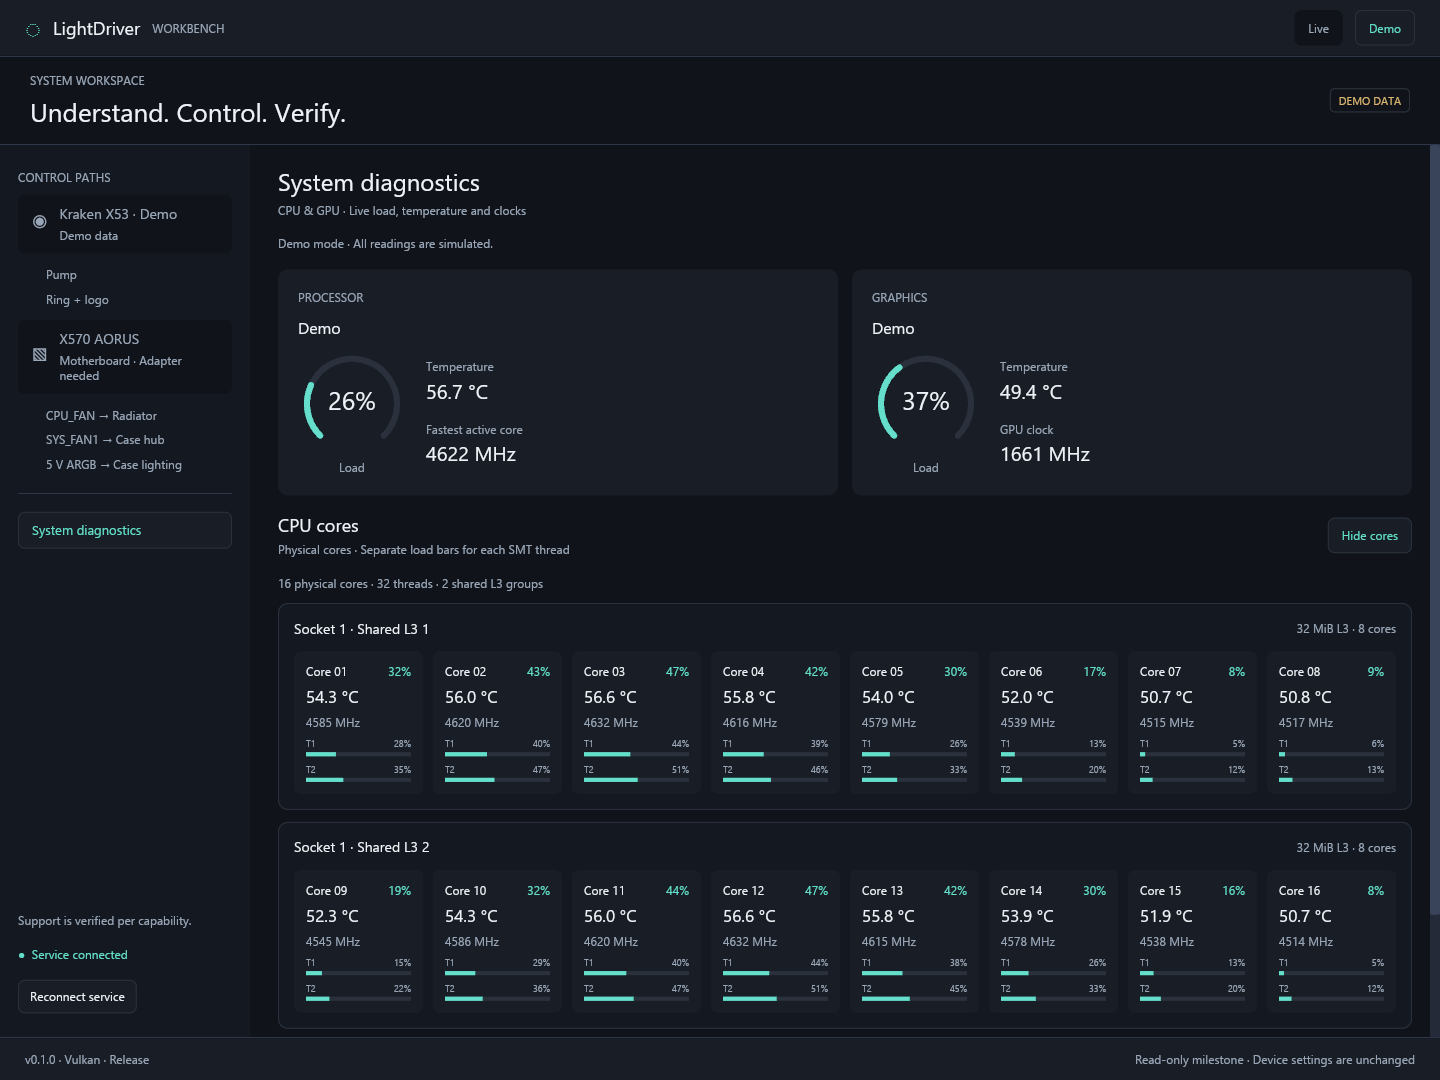
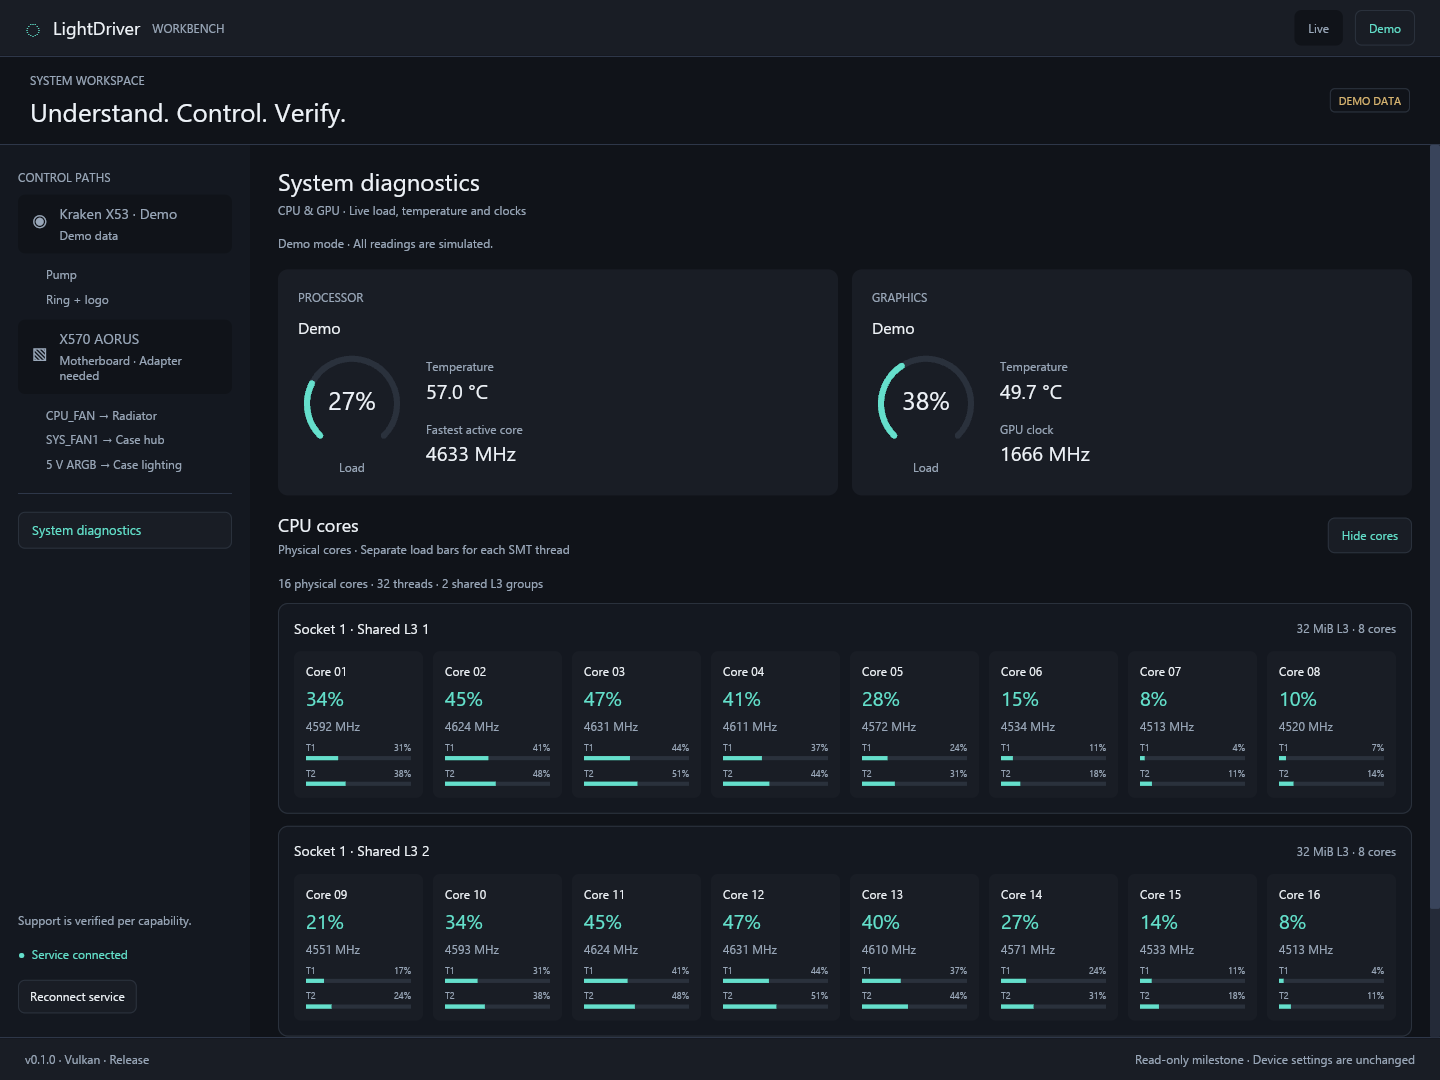
Remove per-core temperature from diagnostics

diff --git a/crates/desktop/src/diagnostics.rs b/crates/desktop/src/diagnostics.rs
@@ -295,28 +295,13 @@ impl Workbench {
 fn core_tile(core: &PhysicalCore, current: bool, hybrid: bool) -> Element<'_, Message> {
     let load = current.then(|| core.load()).flatten();
     let mut tile = column![
-        row![
-            heading(format!("Core {:02}", core.id + 1), 12),
-            Space::new().width(Fill),
-            text(
-                load.map(|v| format!("{v:.0}%"))
-                    .unwrap_or_else(|| "—".into())
-            )
-            .size(12)
-            .color(style::ACCENT)
-        ]
-        .spacing(5),
+        heading(format!("Core {:02}", core.id + 1), 12),
         text(
-            if current {
-                core.temperature
-                    .filter(|v| Unit::Celsius.accepts(f64::from(*v)))
-                    .map(|v| format!("{v:.1} °C"))
-            } else {
-                None
-            }
-            .unwrap_or_else(|| "— °C".into())
+            load.map(|v| format!("{v:.0}%"))
+                .unwrap_or_else(|| "—".into())
         )
-        .size(17),
+        .size(20)
+        .color(style::ACCENT),
         label(
             if current {
                 core.clock_mhz

diff --git a/crates/monitoring/src/windows_cpu.rs b/crates/monitoring/src/windows_cpu.rs
@@ -147,7 +147,6 @@ fn parse(bytes: &[u8]) -> Result<CpuTopology, String> {
                     load: None,
                 })
                 .collect(),
-            temperature: None,
             clock_mhz: None,
         })
         .collect();
@@ -161,7 +160,7 @@ fn parse(bytes: &[u8]) -> Result<CpuTopology, String> {
         })
         .collect();
     let detail = format!(
-        "Windows physical-core / shared-L3 topology. Per-core temperatures await validated vendor-to-OS identity mapping.{}",
+        "Windows physical-core / shared-L3 topology.{}",
         if cores.len() < total_cores {
             " Display limited to 256 physical cores / 512 threads."
         } else {

diff --git a/crates/monitoring/src/lib.rs b/crates/monitoring/src/lib.rs
@@ -414,7 +414,6 @@ fn demo_topology(ticks: u64) -> lightdriver_core::CpuTopology {
                         }
                     })
                     .collect(),
-                temperature: Some(50.0 + load * 0.15),
                 clock_mhz: Some(4500.0 + load * 3.0),
             }
         })
@@ -430,7 +429,7 @@ fn demo_topology(ticks: u64) -> lightdriver_core::CpuTopology {
         total_cores: count,
         total_threads: count * 2,
         sampled_at_ms: now_ms(),
-        detail: "Simulated shared-L3 clusters and per-core temperatures".into(),
+        detail: "Simulated shared-L3 clusters, loads and clocks".into(),
     }
 }
 

diff --git a/crates/core/src/topology.rs b/crates/core/src/topology.rs
@@ -16,7 +16,6 @@ pub struct PhysicalCore {
     pub cluster: Option<u16>,
     pub efficiency_class: u8,
     pub threads: Vec<CpuThread>,
-    pub temperature: Option<f32>,
     pub clock_mhz: Option<f32>,
 }
 impl PhysicalCore {
@@ -74,7 +73,6 @@ mod tests {
                     load: None,
                 },
             ],
-            temperature: None,
             clock_mhz: None,
         };
         assert_eq!(core.load(), None);

diff --git a/crates/ipc/src/lib.rs b/crates/ipc/src/lib.rs
@@ -204,7 +204,6 @@ mod tests {
                             load: Some(99.99999),
                         })
                         .collect(),
-                    temperature: Some(99.99999),
                     clock_mhz: Some(9999.999),
                 })
                 .collect(),

diff --git a/docs/diagnostics.md b/docs/diagnostics.md
@@ -2,7 +2,7 @@
 
 Diagnostics is a single native view for **CPU and GPU load, temperature and clock speed**. CPU and GPU load use cached radial bars. Missing readings show a neutral track and a dash; valid zero remains 0%. Power, memory and cooling measurements can remain in diagnostic exports, but are not summary cards in this view.
 
-**Show cores** expands a responsive CPU diagram. Each tile represents one physical core, with a separate load bar for each SMT thread, temperature when available, and the OS reported clock. Rows adapt to the available width; large diagrams scroll vertically.
+**Show cores** expands a responsive CPU diagram. Each tile represents one physical core, with a separate load bar for each SMT thread and the OS reported clock. Rows adapt to the available width; large diagrams scroll vertically.
 
 ## CPU topology
 
@@ -10,7 +10,7 @@ The service reads Windows `GetLogicalProcessorInformationEx` relationships. Tile
 
 Thread addresses contain both processor group and processor number. Load and frequency use language-neutral Windows **Processor Information** counters, including systems with more than 64 logical processors. A physical core's load is the mean of its measured SMT thread loads; an incomplete set of thread samples has no aggregate. Rate counters require two valid samples. The diagram is bounded to 256 physical cores and 512 threads; any truncation is explicit. Static topology is refreshed on service restart; live CPU hotplug has not been validated.
 
-Per-core temperatures require a validated mapping between vendor sensor identities and OS physical cores. This mapping is currently pending. Live tiles therefore show a dash for temperature; the CPU card can independently show measured package temperature. Package temperature is never copied to individual cores. Demo temperatures and topology are explicitly simulated.
+Temperature appears at CPU package level only. Individual-core temperatures are outside the current scope because reliable vendor-to-core sensor mapping is not established. Core tiles focus on measured load, SMT threads and reported clock. Demo readings and topology are explicitly simulated.
 
 ## AMD CPU sensors
 
@@ -27,11 +27,11 @@ The runtime is discovered through an explicit absolute `LIGHTDRIVER_AMD_CPU_SDK_
 | Provider | Implemented readings | Validation |
 | --- | --- | --- |
 | Windows performance counters / topology | Aggregate load, physical cores, SMT loads, reported clocks, sockets, shared L3 and efficiency classes | Live reference topology/read paths observed; synthetic multi-group, SMT and hybrid fixtures |
-| AMD Ryzen Master Monitoring SDK | CPU package temperature, fastest active-core clock, PPT power | Live elevated read paths observed; per-core identity mapping pending |
+| AMD Ryzen Master Monitoring SDK | CPU package temperature, fastest active-core clock, PPT power | Live elevated read paths observed |
 | AMD ADLX | GPU temperature/hotspot, load, board/chip power, fan RPM, clocks and used memory | Live temperature/load/board-power read paths observed; broader coverage pending |
 | NVIDIA NVML | GPU temperature, device power, load, memory, clocks and fan percentage | Rust adapter implemented; physical validation pending |
 | Intel Level Zero Sysman | GPU temperature domains, root-card average power, combined-engine load and GPU frequency | Rust adapter and x64 layout checks implemented; physical validation pending |
-| Intel CPU vendor SDK | Package/core temperature | Adapter pending; Windows load/topology/reported clocks remain usable |
+| Intel CPU vendor SDK | Package temperature | Adapter pending; Windows load/topology/reported clocks remain usable |
 | Kraken X3 HID | Coolant temperature, pump RPM and duty | Read-only reference X53 telemetry observed |
 | Motherboard fan sensors | Radiator / case RPM | Adapter pending |
 

diff --git a/README.md b/README.md
@@ -142,7 +142,7 @@ The JSON records redraw-request intervals after a two-second warmup, not mouse-t
 
 ## System diagnostics
 
-The Diagnostics tab focuses on CPU/GPU load, temperature and clock speed. Cached radial bars show load; Show cores expands physical-core tiles with SMT bars, OS clocks and shared-L3 grouping for CCX-like layouts. AMD CPU package temperature uses an optional installed vendor SDK through the local Rust service; Enable CPU sensors requests Windows UAC while keeping the UI at normal permissions. Per-core temperature identity mapping and Intel CPU temperature integration remain pending. GPU adapters cover AMD ADLX, NVIDIA NVML and Intel Level Zero Sysman, subject to installed APIs. See [coverage and semantics](docs/diagnostics.md).
+The Diagnostics tab focuses on CPU/GPU load, temperature and clock speed. Cached radial bars show load; Show cores expands physical-core tiles with SMT bars, OS clocks and shared-L3 grouping for CCX-like layouts. AMD CPU package temperature uses an optional installed vendor SDK through the local Rust service; Enable CPU sensors requests Windows UAC while keeping the UI at normal permissions. Per-core tiles show load and reported clock. Intel CPU package temperature integration remains pending. GPU adapters cover AMD ADLX, NVIDIA NVML and Intel Level Zero Sysman, subject to installed APIs. See [coverage and semantics](docs/diagnostics.md).
 
 After updating from an older build, restart the local service: snapshot protocol version 3 includes CPU topology and the explicit sensor-service handoff. Windows CI builds an optimized portable app artifact containing both executables and the launcher.
 

diff --git a/docs/verification.md b/docs/verification.md
@@ -39,7 +39,7 @@ AMD ADLX returned GPU temperature/load/power; Windows topology and performance c
 
 ## Remaining limits
 
-- Live per-core temperature identity mapping is pending. Package temperature is not copied into core tiles.
+- Individual-core temperature was removed from scope. The CPU card retains measured package temperature; core tiles show load and reported clock.
 - Intel CPU temperature integration and physical NVIDIA/Intel GPU validation remain pending.
 - Multi-group and hybrid CPU layouts are covered by synthetic tests; physical hardware validation and CPU hotplug remain pending.
 - UAC cancellation recovery is covered by UI state logic; broader Windows account/session configurations and clean-machine deployment remain unverified.
